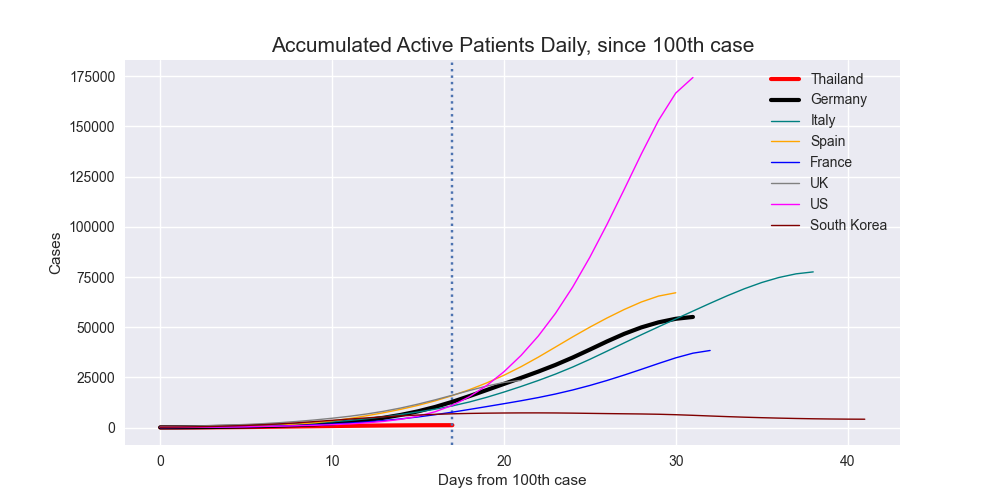
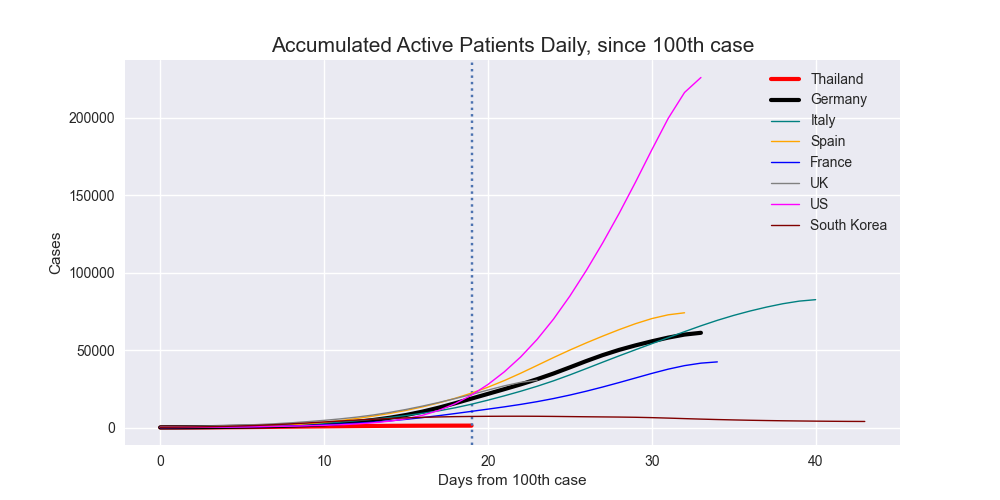
replotted

diff --git a/covid19/plot.py b/covid19/plot.py
@@ -336,8 +336,8 @@ def plot_remaining_patients_vs_confirms(figno, step, countries, max_days=None, h
     plt.plot(cnt["ratio_outstanding"]*100, label=c, linewidth=thick, color=markers[c])
 
     keys = {
-      "Spain": "Still developing",
-      "Italy": "Still developing",
+      "Spain": "Slowing down",
+      "Italy": "Slowing down",
       "Germany": "Slowing down",
       "South Korea": "Ending soon"
     }
@@ -347,6 +347,8 @@ def plot_remaining_patients_vs_confirms(figno, step, countries, max_days=None, h
       last_x = cnt.tail(1).index.tolist()[0]
 
       y_pos = last_y-15 if c=="Spain" else last_y+15
+      if c=="Germany":
+        y_pos += 7
 
       strcase = "{}: {:.0f} % left recovering".format(keys[c], last_y)
       plt.annotate(strcase,
@@ -420,5 +422,5 @@ if __name__ == '__main__':
   # plot_time_to_double_cases(7, step, countries, max_days, highlight)
   plot_time_to_recover(8, step, countries, max_days, highlight)
   plot_recovery_over_days(9, step, excep(countries,"UK"), max_days, highlight)
-  plot_remaining_patients_vs_confirms(10, step, countries, max_days, highlight)
+  plot_remaining_patients_vs_confirms(10.1, step, countries, max_days, highlight)
   input("Press RETURN to end ...")

diff --git a/README.md b/README.md
@@ -42,6 +42,7 @@ The program will show several plots
 
 ## Sample plots
 
+![Sample plot](plots/fig-10.1-AA.png)
 ![Sample plot](plots/fig-10-AA.png)
 ![Sample plot](plots/fig-2-AA.png)
 ![Sample plot](plots/fig-3-AA.png)
